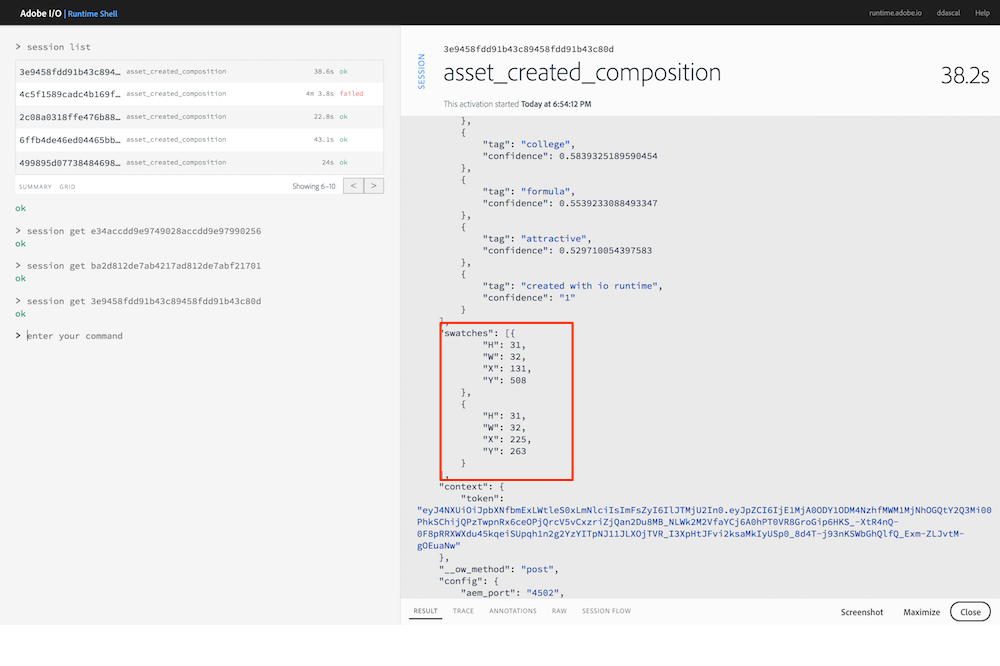
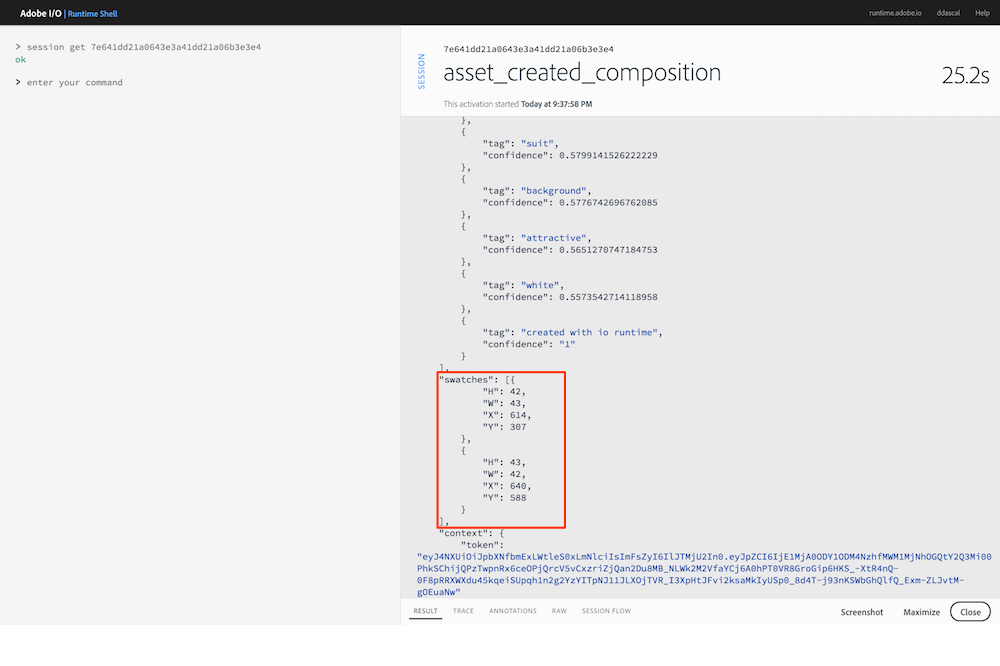
Serverless definitions, new screenshots added for actions

diff --git a/module6.md b/module6.md
@@ -4,7 +4,7 @@ title: Exercise 2&#58; Manual Image Processing
 ---
 
 ## Overview
-In this exercise you will add code to check the quality score received from the previous Sensei Image Qualit action. When the quality score does not meet an accepted range, you will call an action to upload it back to Creative Cloud for manual processing.
+In this exercise you will add code to check the overall quality score received from the previous Sensei Image Quality action. When the quality score does not meet an acceptable range, you will call an action to upload it back to Creative Cloud for manual processing.
 
 ## Steps
 1. In Visual Studio Code, open the `exercises/exercise-2/composition.js` file. 
@@ -34,12 +34,21 @@ In this exercise you will add code to check the quality score received from the 
 
 3. Open the browser to your Creative Cloud instance and trigger the `asset_created` event by uploading a low quality image into it. One has been included for you within the projects `~/adobe-sensei-actions-lab/stock-photos` folder by the name of `quality-fail.png`.
 
-5. Switch back to the **Adobe I/O Runtime Shell** to find your session:
+5. Switch back to the **Adobe I/O Runtime Shell** to find your session by running the following command:
 
        session list
 
-6. Locate the most recent `asset_created_composition` running and click on the session id to view the result. When run successfully, the **SESSION FLOW** tab should show results like the screenshot below where the `cc-upload-manual` action executed quality score failure:
+6. Locate the most recent `asset_created_composition` running and click on the session id to view the result. When it was run successfully the **RESULTS** tab JSON will show the scores indicating the quality value is indeed less than **0.64**:
 
+      ![](images/quality-scores.png)
+
+    Also note how the **SESSION FLOW** tab at the bottom shows the path ended with the `cc-upload-manual` action:
+
+      ![](images/cc-upload-manual.png)
+
+7. Now go back into your Creative Cloud instance and you should see that a new folder was created called `manual` and contains the `quality-fail.png` file.
+
+      ![](images/manual-process.png)
 
 <div class="row" style="margin-top:40px;">
 <div class="col-sm-12">

diff --git a/module1.md b/module1.md
@@ -5,17 +5,15 @@ title: Demo & Overview
 
 ## Demo
 
-Demo the workflow (Dawn 15 mins on demo/Adobe Sensei functions)
-
 ![](images/sensei-workflow.png)
 
 ## Serverless Overview
 - Overview of serverless and other OpenWhisk related terms (slides URL?)
 
-- `action` - 
-- `composition` -
-- `rule` - 
-- `trigger` - 
+- `action` - a piece of code that performs one specific task that can be deployed to the Adobe I/O Runtime as source code or a Docker image. An action performs work when invoked via REST API. Actions can also automatically respond to events from the Adobe Cloud Platforms via a webhook and trigger.
+- `trigger` - a statement that you want to react to a certain event and fired when one is received.
+- `rule` - a rule associates a trigger with an action. Every time a trigger fires, the rule invokes the associated action.
+- `composition` - informally named apps, run in the cloud using automatically managed compute and memory resources and have control over action invocation and data flow.
 
 <div class="row" style="margin-top:40px;">
 <div class="col-sm-12">

diff --git a/module8.md b/module8.md
@@ -67,9 +67,11 @@ In this exercise you will add the Sensei Auto Swatch function to automatically e
 
     > **NOTE:** Use the AEM host and credentials provided to login and check AEM for the file.
 
-    Notice the images are now cropped to the body and a new folder has been created to hold the swatches prefixed with the image name:
+    Notice the images now have the face cropped out and a new folder has been created to hold the swatches for the image sized based on the sensei-swatch action results:
 
-  ![](images/swatch-folders.png)
+      ![](images/swatches-aem.png)
+
+      ![](images/swatch.png)
 
     
 

diff --git a/module5.md b/module5.md
@@ -78,6 +78,7 @@ In this exercise you will use the **Adobe Sensei Image Quality** action to retri
     ![](images/image-quality-scores.png)
 
 
+   - **Quality** - The overall score 
    - **Balancing Element** - How balanced the overall composition is
    - **Color Harmony** - How balanced the colors are
    - **Interesting Content** - Whether or not the image contains interesting content
